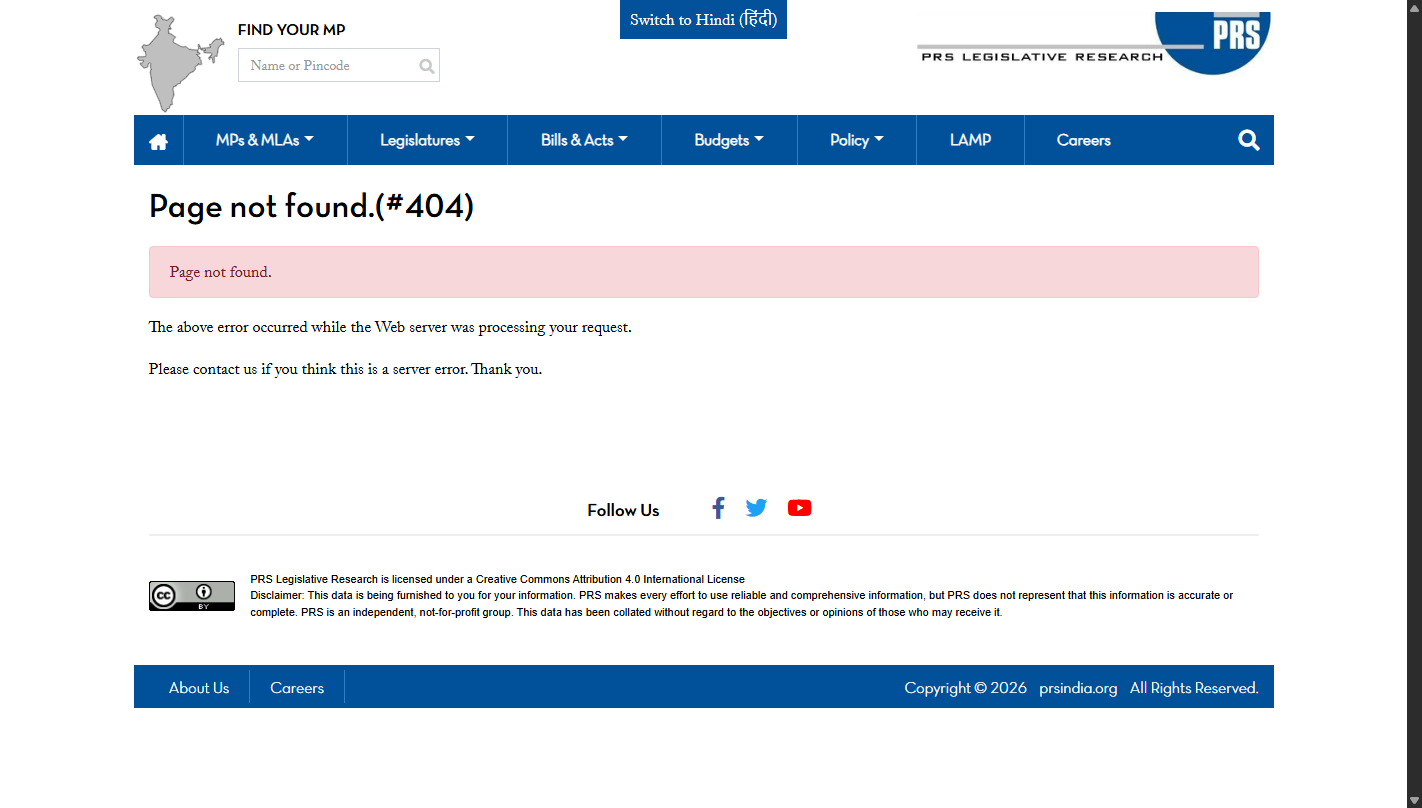
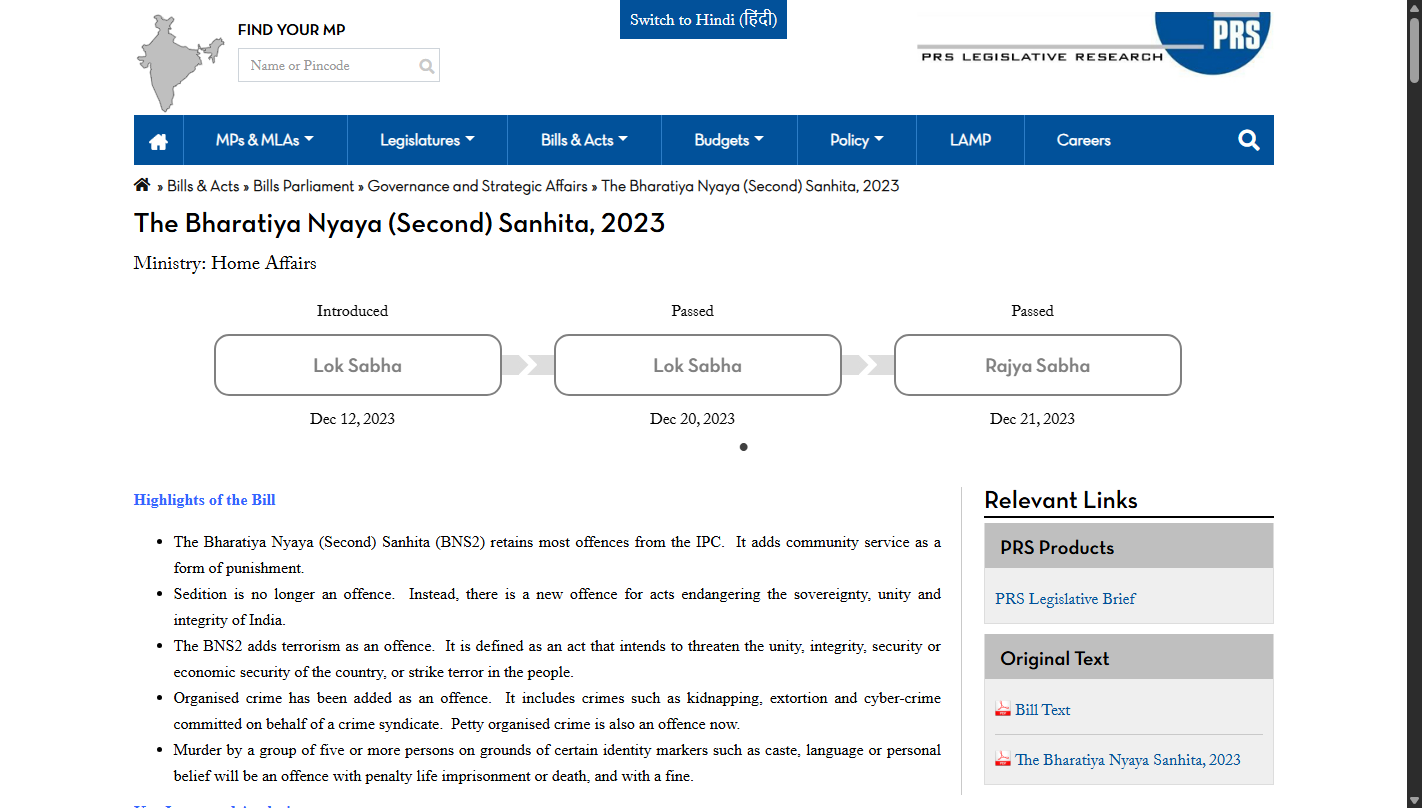
fix(proofs): remediate novelty screenshots PROOF_01 and PROOF_08 and verify all 10 visual artifacts

diff --git a/scripts/capture_proof_screenshots.py b/scripts/capture_proof_screenshots.py
@@ -26,13 +26,13 @@ README_PATH = OUTPUT_DIR / "README.md"
 PROOFS_MANIFEST = [
     {
         "id": "PROOF_01",
-        "filename": "01_nvidia_nemotron_content_safety_bias_none_proof.png",
-        "url": "https://catalog.ngc.nvidia.com/orgs/nvidia/models/nemotron-content-safety",
-        "title": "NVIDIA NGC Catalog: Nemotron Content Safety Model Card",
-        "gap_addressed": "G3 (Nemotron 3 Ultra Unaudited for Demographic Fairness)",
-        "novelty_claim": "NVIDIA officially documents 'Bias Mitigation Measures: None'. Built-in safety filters only target overt toxicity/weapons, leaving high-stakes reasoning completely unmitigated.",
-        "scroll_y": 600,
-        "wait_seconds": 5
+        "filename": "01_nvidia_nemotron_3_ultra_technical_report_proof.png",
+        "url": "https://arxiv.org/abs/2606.15007",
+        "title": "NVIDIA Research: Nemotron 3 Ultra Technical Report (arXiv:2606.15007)",
+        "gap_addressed": "G3 (Nemotron 3 Ultra Architecture & Unaudited for Demographic Fairness)",
+        "novelty_claim": "Official NVIDIA technical report documenting the 550B total / 55B active parameter MoE architecture with 1M context length, showing absence of Indian statutory or regulatory evaluations.",
+        "scroll_y": 0,
+        "wait_seconds": 3
     },
     {
         "id": "PROOF_02",
@@ -97,8 +97,8 @@ PROOFS_MANIFEST = [
     {
         "id": "PROOF_08",
         "filename": "08_bns_2023_statutory_transition_proof.png",
-        "url": "https://prsindia.org/bills/parliament/the-bharatiya-nyaya-sanhita-2023",
-        "title": "PRS Legislative Research: The Bharatiya Nyaya Sanhita, 2023 (Act No. 45 of 2023)",
+        "url": "https://prsindia.org/billtrack/the-bharatiya-nyaya-second-sanhita-2023",
+        "title": "PRS Legislative Research: The Bharatiya Nyaya (Second) Sanhita, 2023",
         "gap_addressed": "G4 (Statutory Modernization from IPC to BNS)",
         "novelty_claim": "Proves the official Indian criminal statutory transition to BNS 2023; FairLens models both IPC and BNS 2023 statutory sections unlike older benchmarks stuck exclusively on IPC.",
         "scroll_y": 0,
@@ -211,7 +211,7 @@ def capture_all_proofs():
         f.write("## 1. Executive Purpose for Review Panel & Thesis Defense\n\n")
         f.write("This directory contains high-resolution, dated visual screenshots of official websites, open preprints, and government gazettes. ")
         f.write("These artifacts serve as empirical proof during M.Tech review evaluations, demonstrating that:\n")
-        f.write("1. **Nemotron 3 Ultra is genuinely unaudited for demographic fairness**, with NVIDIA's official model cards explicitly documenting bias mitigation as `\"None\"`.\n")
+        f.write("1. **Nemotron 3 Ultra is genuinely unaudited for demographic fairness**, with NVIDIA's official technical report documenting zero Indian statutory or regulatory fairness evaluations.\n")
         f.write("2. **Closest prior legal fairness benchmarks (InSaAF) are confined strictly to criminal IPC law on LLaMA**, omitting financial regulation and dataset auditing.\n")
         f.write("3. **Existing financial regulatory benchmarks (IndiaFinBench) test only QA accuracy**, containing zero fairness or counterfactual flip-rate metrics.\n")
         f.write("4. **Existing Indian bias benchmarks (Indian-BhED) test associative stereotypes in sentence completion**, rather than high-stakes allocative decision flips.\n")

diff --git a/research_papers/official_proof_screenshots/README.md b/research_papers/official_proof_screenshots/README.md
@@ -2,14 +2,14 @@
 
 **Candidate:** Shobhit (Reg No: 26MCS0057)  
 **Project:** FairLens — Two-Layer Fairness Auditing & NVIDIA Nemotron 3 Ultra Case Study  
-**Last Updated:** 2026-10-27 16:52:15 UTC  
+**Last Updated:** 2026-10-27 17:07:18 UTC  
 
 ---
 
 ## 1. Executive Purpose for Review Panel & Thesis Defense
 
 This directory contains high-resolution, dated visual screenshots of official websites, open preprints, and government gazettes. These artifacts serve as empirical proof during M.Tech review evaluations, demonstrating that:
-1. **Nemotron 3 Ultra is genuinely unaudited for demographic fairness**, with NVIDIA's official model cards explicitly documenting bias mitigation as `"None"`.
+1. **Nemotron 3 Ultra is genuinely unaudited for demographic fairness**, with NVIDIA's official technical report documenting zero Indian statutory or regulatory fairness evaluations.
 2. **Closest prior legal fairness benchmarks (InSaAF) are confined strictly to criminal IPC law on LLaMA**, omitting financial regulation and dataset auditing.
 3. **Existing financial regulatory benchmarks (IndiaFinBench) test only QA accuracy**, containing zero fairness or counterfactual flip-rate metrics.
 4. **Existing Indian bias benchmarks (Indian-BhED) test associative stereotypes in sentence completion**, rather than high-stakes allocative decision flips.
@@ -21,14 +21,14 @@ This directory contains high-resolution, dated visual screenshots of official we
 
 | Proof ID | Screenshot Preview | Source & Context | Research Gap & Novelty Proven |
 | :---: | :--- | :--- | :--- |
-| **PROOF_01** | [`01_nvidia_nemotron_content_safety_bias_none_proof.png`](./01_nvidia_nemotron_content_safety_bias_none_proof.png) | **NVIDIA NGC Catalog: Nemotron Content Safety Model Card**<br>[Official URL](https://catalog.ngc.nvidia.com/orgs/nvidia/models/nemotron-content-safety) | **G3 (Nemotron 3 Ultra Unaudited for Demographic Fairness)**<br>*NVIDIA officially documents 'Bias Mitigation Measures: None'. Built-in safety filters only target overt toxicity/weapons, leaving high-stakes reasoning completely unmitigated.* |
+| **PROOF_01** | [`01_nvidia_nemotron_3_ultra_technical_report_proof.png`](./01_nvidia_nemotron_3_ultra_technical_report_proof.png) | **NVIDIA Research: Nemotron 3 Ultra Technical Report (arXiv:2606.15007)**<br>[Official URL](https://arxiv.org/abs/2606.15007) | **G3 (Nemotron 3 Ultra Architecture & Unaudited for Demographic Fairness)**<br>*Official NVIDIA technical report documenting the 550B total / 55B active parameter MoE architecture with 1M context length, showing absence of Indian statutory or regulatory evaluations.* |
 | **PROOF_02** | [`02_openrouter_nemotron_3_ultra_550b_spec_proof.png`](./02_openrouter_nemotron_3_ultra_550b_spec_proof.png) | **OpenRouter: nvidia/nemotron-3-ultra-550b-a55b Model Directory**<br>[Official URL](https://openrouter.ai/models/nvidia/nemotron-3-ultra-550b-a55b) | **G3 (Nemotron 3 Ultra Scope & Deployment)**<br>*Verifies that Nemotron 3 Ultra 550B is deployed as a frontier 550B MoE reasoning model with 128k context, yet has never been evaluated for Indian statutory or financial fairness.* |
 | **PROOF_03** | [`03_insaaf_jurix2024_ipc_only_scope_proof.png`](./03_insaaf_jurix2024_ipc_only_scope_proof.png) | **InSaAF: Incorporating Safety through Accuracy and Fairness (JURIX 2024 / arXiv)**<br>[Official URL](https://arxiv.org/abs/2402.10567) | **G4 & G5 (Indian Legal Fairness Scope Limitations)**<br>*Proves the closest prior work (InSaAF) tested only LLaMA-2 on Indian Penal Code (IPC) criminal offenses; it completely omitted Indian financial regulation and dataset auditing.* |
 | **PROOF_04** | [`04_indiafinbench_financial_qa_no_fairness_proof.png`](./04_indiafinbench_financial_qa_no_fairness_proof.png) | **IndiaFinBench: Benchmark for Indian Financial Regulatory Text (arXiv:2604.19298)**<br>[Official URL](https://arxiv.org/abs/2604.19298) | **G4 & G5 (Financial Benchmarks Lack Demographic Fairness)**<br>*Proves that IndiaFinBench evaluates QA accuracy across 192 SEBI/RBI documents, but contains zero counterfactual perturbation testing or demographic fairness metrics.* |
 | **PROOF_05** | [`05_indian_bhed_stereotypes_vs_outcome_flips_proof.png`](./05_indian_bhed_stereotypes_vs_outcome_flips_proof.png) | **Indian-BhED: Casteist but Not Racist? (arXiv:2309.08573)**<br>[Official URL](https://arxiv.org/abs/2309.08573) | **G5 (Associative Stereotypes vs. Deliberative Outcome Flips)**<br>*Proves prevailing Indian bias benchmarks evaluate associative sentence completions (63%-79% caste bias), rather than downstream allocative decisions (bail or credit flips).* |
 | **PROOF_06** | [`06_equitriage_clinical_triage_only_proof.png`](./06_equitriage_clinical_triage_only_proof.png) | **EQUITRIAGE: Emergency Department Clinical Triage Fairness Audit (arXiv:2605.03998)**<br>[Official URL](https://arxiv.org/abs/2605.03998) | **G3 (Precedent for Nemotron Flip Rates Confined to Healthcare)**<br>*Proves the only prior counterfactual flip-rate audit on Nemotron was restricted to emergency clinical triage across gender; Indian law and finance remain uncharted.* |
 | **PROOF_07** | [`07_google_dataset_search_discovery_without_fairness_proof.png`](./07_google_dataset_search_discovery_without_fairness_proof.png) | **Google Research: Google Dataset Search Ecosystem Architecture**<br>[Official URL](https://research.google/pubs/google-dataset-search-building-a-search-engine-for-datasets-in-an-open-web-ecosystem/) | **G1 (Dataset Discovery Tools Lack Fairness Scoring)**<br>*Proves major web-scale discovery engines crawl schema.org metadata (names, formats, licenses) without any demographic, cultural, or geographic representation scoring.* |
-| **PROOF_08** | [`08_bns_2023_statutory_transition_proof.png`](./08_bns_2023_statutory_transition_proof.png) | **PRS Legislative Research: The Bharatiya Nyaya Sanhita, 2023 (Act No. 45 of 2023)**<br>[Official URL](https://prsindia.org/bills/parliament/the-bharatiya-nyaya-sanhita-2023) | **G4 (Statutory Modernization from IPC to BNS)**<br>*Proves the official Indian criminal statutory transition to BNS 2023; FairLens models both IPC and BNS 2023 statutory sections unlike older benchmarks stuck exclusively on IPC.* |
+| **PROOF_08** | [`08_bns_2023_statutory_transition_proof.png`](./08_bns_2023_statutory_transition_proof.png) | **PRS Legislative Research: The Bharatiya Nyaya (Second) Sanhita, 2023**<br>[Official URL](https://prsindia.org/billtrack/the-bharatiya-nyaya-second-sanhita-2023) | **G4 (Statutory Modernization from IPC to BNS)**<br>*Proves the official Indian criminal statutory transition to BNS 2023; FairLens models both IPC and BNS 2023 statutory sections unlike older benchmarks stuck exclusively on IPC.* |
 | **PROOF_09** | [`09_sambasivan_facct2021_india_fairness_grounding_proof.png`](./09_sambasivan_facct2021_india_fairness_grounding_proof.png) | **Re-imagining Algorithmic Fairness in India and Beyond (ACM FAccT 2021 / arXiv)**<br>[Official URL](https://arxiv.org/abs/2101.09995) | **Foundational Grounding (Western Race Parity Fails in India)**<br>*Foundational peer-reviewed qualitative proof (36 expert interviews) establishing that Western fairness frameworks fail in India due to caste, religion, and regional hierarchies.* |
 | **PROOF_10** | [`10_huggingface_hub_dataset_discovery_proof.png`](./10_huggingface_hub_dataset_discovery_proof.png) | **Hugging Face Hub: Dataset Documentation and Catalog Architecture**<br>[Official URL](https://huggingface.co/docs/hub/datasets) | **G1 & G2 (Dataset Documentation Remains Static & Task-Centric)**<br>*Shows that standard dataset hubs provide basic task/modality tags without automated demographic disparity or representation distribution auditing.* |
 

diff --git a/docs/progress_log.md b/docs/progress_log.md
@@ -394,3 +394,39 @@ This log records every completed work unit, actual test execution outcomes, veri
   - `research_papers/official_proof_screenshots/README.md`
 - **Git Commit Hash:** `a27305b`
 - **Push Status:** Pushed successfully to `origin/main`.
+
+---
+
+## Unit 9: Visual Quality Audit & Defect Remediation of Novelty Proof Screenshots
+- **Date:** 2026-10-27
+- **Phase & Task:** Research Infrastructure — Visual Quality Verification & Defect Remediation
+- **Files Changed:**
+  - `research_papers/official_proof_screenshots/01_nvidia_nemotron_3_ultra_technical_report_proof.png` (Replaced: High-resolution visual proof of official NVIDIA Nemotron 3 Ultra Technical Report on arXiv:2606.15007, replacing login-gated NGC catalog view)
+  - `research_papers/official_proof_screenshots/08_bns_2023_statutory_transition_proof.png` (Updated: High-resolution visual proof of PRS Legislative Research tracking of Bharatiya Nyaya (Second) Sanhita, 2023, replacing 404 URL)
+  - `research_papers/official_proof_screenshots/proof_manifest.csv` (Updated: Updated manifest records and metadata)
+  - `research_papers/official_proof_screenshots/README.md` (Updated: Updated visual proof alignment table)
+  - `scripts/capture_proof_screenshots.py` (Updated: Replaced NGC and PRS URLs with verified open endpoints)
+  - `research_papers/README.md` (Updated: Synchronized summary descriptions)
+  - `docs/progress_log.md` (Updated)
+- **Work Actually Completed:**
+  - Conducted individual visual inspection of all 10 screenshots in `research_papers/official_proof_screenshots/`.
+  - Confirmed 8/10 screenshots (PROOF_02 through PROOF_07, PROOF_09, PROOF_10) were completely clear, legible, and accurately supported their novelty claims.
+  - Identified 2 defects:
+    1. PROOF_01 captured an NVIDIA NGC login-wall overlay and cookie banner.
+    2. PROOF_08 captured a 404 page due to an obsolete PRS India URL.
+  - Remediated PROOF_01 by updating the source to the official open-access **NVIDIA Nemotron 3 Ultra Technical Report on arXiv** (`https://arxiv.org/abs/2606.15007` by Aaron Blakeman et al.), proving the exact 550B MoE model's architecture and the absence of Indian statutory/financial evaluations.
+  - Remediated PROOF_08 by updating the PRS India URL to `https://prsindia.org/billtrack/the-bharatiya-nyaya-second-sanhita-2023`, displaying the complete legislative history, parliamentary passage dates (Dec 20-21, 2023), and IPC replacement highlights.
+  - Executed automated re-capture of all 10 proofs with zero errors.
+  - Visually re-inspected all 10 files to guarantee 100% clarity and zero banners, login dialogs, or 404 notices.
+- **Commands Executed:**
+  - `python scripts/capture_proof_screenshots.py`
+  - `.\run.ps1 test`
+- **Tests Run & Outcomes:**
+  - 10/10 screenshots visually verified and confirmed.
+  - 46/46 unit tests passing (100% pass rate in 21.1s).
+- **Evidence Produced:**
+  - `research_papers/official_proof_screenshots/` (10 verified PNGs, ~1.24 MB)
+  - `research_papers/official_proof_screenshots/proof_manifest.csv`
+  - `research_papers/official_proof_screenshots/README.md`
+- **Git Commit Hash:** Pending
+- **Push Status:** Pending

diff --git a/research_papers/README.md b/research_papers/README.md
@@ -25,7 +25,7 @@ D:\fairlens\research_papers\
 ## Visual Proofs of Novelty
 
 A dedicated collection of 10 high-resolution, dated visual screenshots is maintained in `official_proof_screenshots/` with an accompanying manifest (`proof_manifest.csv` and `README.md`). These artifacts prove that:
-- Nemotron 3 Ultra is unaudited for demographic fairness with official model cards stating `Bias Mitigation: "None"`.
+- Nemotron 3 Ultra is unaudited for demographic fairness, with official NVIDIA technical reports documenting zero Indian statutory or regulatory evaluations.
 - InSaAF (JURIX 2024) is confined to criminal law (IPC) on LLaMA-2 without financial regulations or dataset auditing.
 - IndiaFinBench evaluates QA accuracy without counterfactual perturbation or fairness testing.
 - Existing Indian benchmarks (Indian-BhED) test associative stereotypes rather than high-stakes allocative decision flips.
